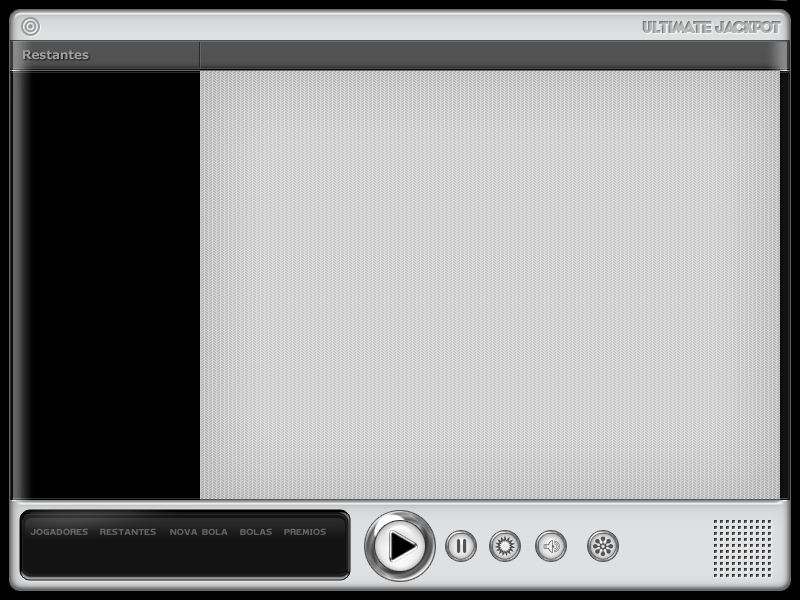
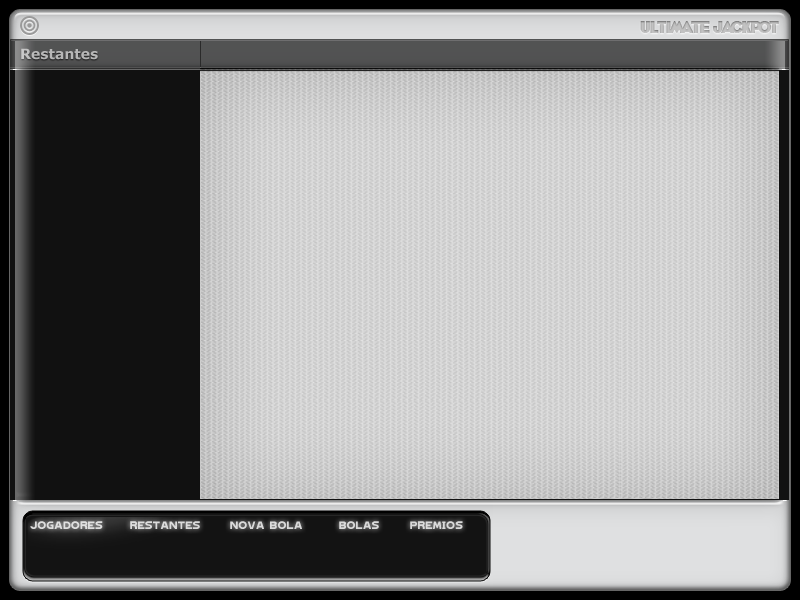
lobby images. sounds e others staffs.

diff --git a/src/main/java/com/tesserate/jackpot/Arena.java b/src/main/java/com/tesserate/jackpot/Arena.java
@@ -17,23 +17,32 @@ import com.tesserate.game.api.fs.ResourceManager;
 import com.tesserate.game.api.math.Vector2D;
 import com.tesserate.game.api.ui.GraphicText;
 import com.tesserate.game.api.ui.GraphicsObjects;
+import com.tesserate.game.api.ui.SceneGraph;
 import com.tesserate.game.api.util.Util;
 
 public class Arena extends GraphicsObjects {
+	private static final long serialVersionUID = -9146228304753001488L;
+
 	private static final int TOP = 79;
 	private static final int LEFT = 209;
-	private static final int H = 600;
-	private static final int W = 800;
+	private static final int H = 1024;
+	private static final int W = 1280;
 	private static final int BOTTOM = H - 109;
 	private static final int RIGHT = W - 29;
 	
-	private int delay = 5000;
-	private static final long serialVersionUID = -9146228304753001488L;
-	private int killBall = 0;
 	private static Arena instance;
+
+//	private int delay = 5000;
+//	private int countdown = 5;
+//	private long countTime = 0;
+//	private int killBall = 0;
+	
 	private List<Ball> balls = Collections.synchronizedList(new ArrayList<Ball>());
-	private GraphicText ballSize = new GraphicText();
-	private GraphicText killBallSize = new GraphicText();
+	private GraphicText players = new GraphicText();
+	private GraphicText remaining = new GraphicText();
+	private GraphicText cueBall = new GraphicText();
+	private GraphicText nextBall = new GraphicText();
+	private GraphicText prizes = new GraphicText();
 	
 	private Arena(){ 
 		super();
@@ -41,12 +50,23 @@ public class Arena extends GraphicsObjects {
 	};
 	
 	private void init() {
-		ballSize.setColor(Color.WHITE);
+		players.setColor(Color.WHITE);
 		Font f = new Font("Impact", Font.PLAIN, 30);
-		ballSize.setFont(f);
-		ballSize.setPosition(30, H-40);
-		killBallSize.setFont(f);
-		killBallSize.setPosition(270, H-40);
+		players.setFont(f);
+		players.setPosition(30, H-30);
+		players.setMsg(StructJackpot.getPlayers());
+		remaining.setFont(f);
+		remaining.setPosition(130, H-30);
+		remaining.setMsg(StructJackpot.remaining);
+		nextBall.setMsg("5 s");
+		nextBall.setFont(f);
+		nextBall.setPosition(230, H-30);
+		cueBall.setFont(f);
+		cueBall.setPosition(340, H-30);
+		prizes.setMsg("0");
+		prizes.setFont(f);
+		prizes.setPosition(440, H-30);
+		prizes.setMsg(StructJackpot.getPrizes());
 	}
 
 	public static Arena getInstance(){
@@ -63,9 +83,13 @@ public class Arena extends GraphicsObjects {
 		if(this.isVisible()){
 			g.drawImage(ResourceManager.getImageResource("lobby").getImage(), getX(), getY(), null);
 		}
-		ballSize.render(g);
-		killBallSize.setMsg(killBall+"");
-		killBallSize.render(g);
+		
+		this.updateTextValues();
+		players.render(g);
+		remaining.render(g);
+		nextBall.render(g);
+		cueBall.render(g);
+		prizes.render(g);
 		
 		synchronized (balls) {
 			Iterator<Ball> ball = balls.iterator();
@@ -75,12 +99,21 @@ public class Arena extends GraphicsObjects {
 	}
 
 	public void update(long elapsedTime) {
-		if(delay > 0)
-			delay -= elapsedTime;
+		/*refatorar */
+		if(StructJackpot.delay > 0)
+			StructJackpot.delay -= elapsedTime;
 		else{
-			delay = 10000;
+			StructJackpot.delay += 10000;
+			StructJackpot.nextBall = 10;
 			this.launchKillBall();
 		}
+		StructJackpot.countdown += elapsedTime;
+		if(StructJackpot.countdown > 1000){
+			StructJackpot.countdown -= 1000; 
+			--StructJackpot.nextBall;
+			//nextBall.setMsg(String.format("%d s", --StructJackpot.nextBall));
+		}
+		/* */
 		synchronized (balls) {
 			Iterator<Ball> ball = balls.iterator();
 			while (ball.hasNext()){
@@ -108,6 +141,9 @@ public class Arena extends GraphicsObjects {
 					}
 				}
 			}
+			if(StructJackpot.players >0 && StructJackpot.prizes == StructJackpot.remaining){
+				GameCore.setPaused(true);
+			}
 		}
 	}
 	
@@ -132,12 +168,13 @@ public class Arena extends GraphicsObjects {
 			if(!b1.isKillBall()){
 				balls.remove(b1);
 				play("kill");
+				--StructJackpot.remaining;
 			}
 			if(!b2.isKillBall()){
 				balls.remove(b2);
 				play("kill");
+				--StructJackpot.remaining;
 			}
-			ballSize.setMsg(balls.size()-killBall +"");
 		}
 	}
 	
@@ -150,7 +187,15 @@ public class Arena extends GraphicsObjects {
 		bw.setVelocity(Util.rnd(-7, 7),Util.rnd(-7, 7));
 		bw.setKillBall(true); 
 		balls.add(bw);
-		killBall++;
+		StructJackpot.cueBall++;
+	}
+	
+	private void updateTextValues() {
+		players.setMsg(StructJackpot.players);
+		remaining.setMsg(StructJackpot.remaining);
+		nextBall.setMsg(StructJackpot.nextBall);
+		cueBall.setMsg(StructJackpot.cueBall);
+		prizes.setMsg(StructJackpot.prizes);	
 	}
 	
 	public KeyAdapter keyMapper(){
@@ -167,19 +212,29 @@ public class Arena extends GraphicsObjects {
 					balls.add(bw);
 					bw.setPosition(Util.rnd(LEFT, RIGHT),Util.rnd(TOP, BOTTOM));
 					bw.setVelocity(Util.rnd(-7, 7), Util.rnd(-7, 7));
-					ballSize.setMsg(balls.size()+"");
+					
+					++StructJackpot.players;
+					++StructJackpot.remaining;
 				}
 				if(e.getKeyCode() == KeyEvent.VK_R){
 					balls = Collections.synchronizedList(new ArrayList<Ball>());
-					killBall = 0;
-					ballSize.setMsg(balls.size()+"");
+					StructJackpot.reset();
+					GameCore.setPaused(true);
 				}
 				if(e.getKeyCode() == KeyEvent.VK_K){
-					launchKillBall();
+					if(!GameCore.isPaused())
+						launchKillBall();
+				}
+				if(e.getKeyCode() == KeyEvent.VK_S){
+					StructJackpot.prizes++;
+				}
+				if(e.getKeyCode() == KeyEvent.VK_X){
+					StructJackpot.prizes--;
 				}
 				
 				if(e.getKeyCode() == KeyEvent.VK_RIGHT){
 					//eBall.getPosition().x = RIGHT;
+					SceneGraph.getInstance().add( new GraphicText("aqui", 20, TOP+20) );
 				}
 				if(e.getKeyCode() == KeyEvent.VK_LEFT){
 					//eBall.getPosition().x = LEFT;

diff --git a/src/main/java/com/tesserate/jackpot/StructJackpot.java b/src/main/java/com/tesserate/jackpot/StructJackpot.java
@@ -1,0 +1,30 @@
+package com.tesserate.jackpot;
+
+public class StructJackpot {
+	
+	public static int delay = 5000;
+	public static int countdown = 0;
+	public static int nextBall = 5;
+	public static int cueBall = 0;
+	public static int prizes = 1;
+	public static int players = 0;
+	public static int remaining = 0;
+	
+	public static void reset() {
+		delay = 5000;
+		countdown = 0;
+		nextBall = 5;
+		cueBall = 0;
+		prizes = 1;
+		players = 0;
+		remaining = 0;
+	}
+	
+	public static int getPrizes() {
+		return prizes;
+	}
+	
+	public static int getPlayers() {
+		return players;
+	}
+}

diff --git a/src/main/java/com/tesserate/jackpot/Jackpot.java b/src/main/java/com/tesserate/jackpot/Jackpot.java
@@ -91,7 +91,7 @@ public class Jackpot extends GameCore{
 		soundManager.getSound("go", Resource.loadFile("go.wav"));
 		soundManager.getSound("time", Resource.loadFile("time.wav"));
 		soundManager.getSound("hit", Resource.loadFile("hit.wav"));
-		soundManager.getSound("kill", Resource.loadFile("kill.wav"));
+		soundManager.getSound("kill", Resource.loadFile("kill2.wav"));
 	}
 
 	public static void main(String[] args) {
